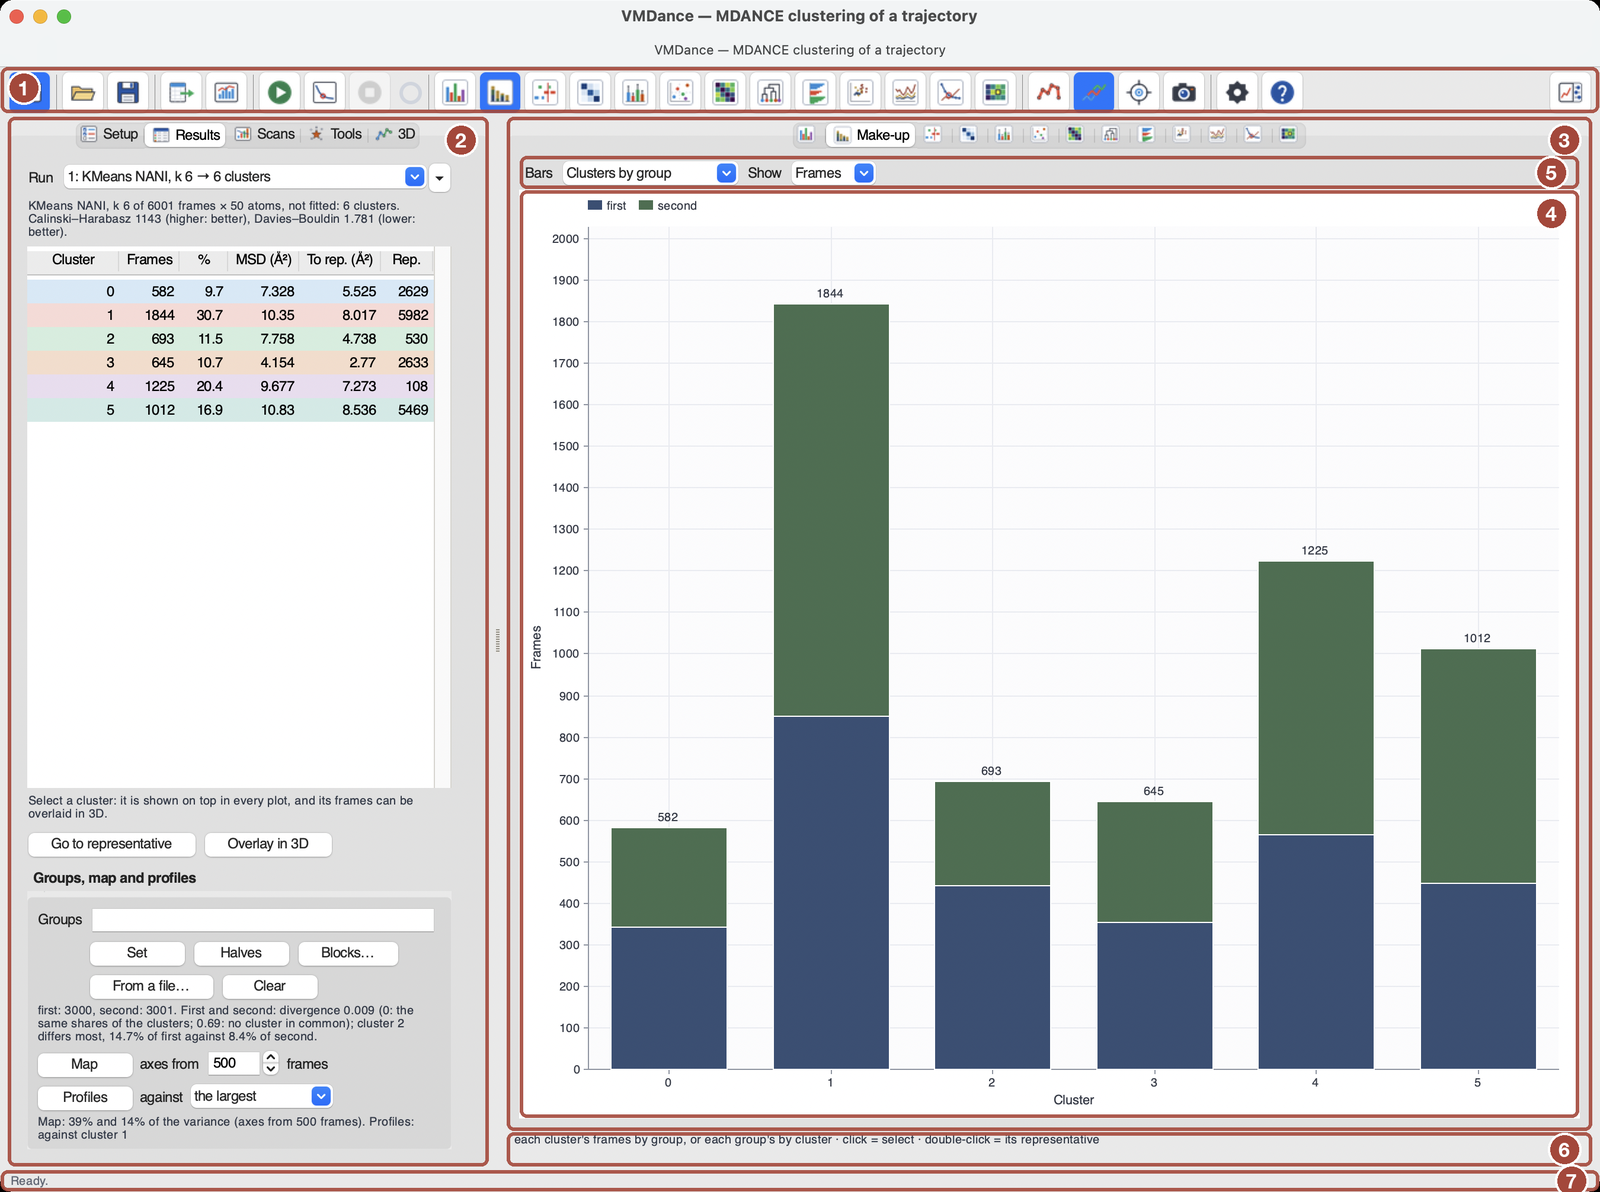
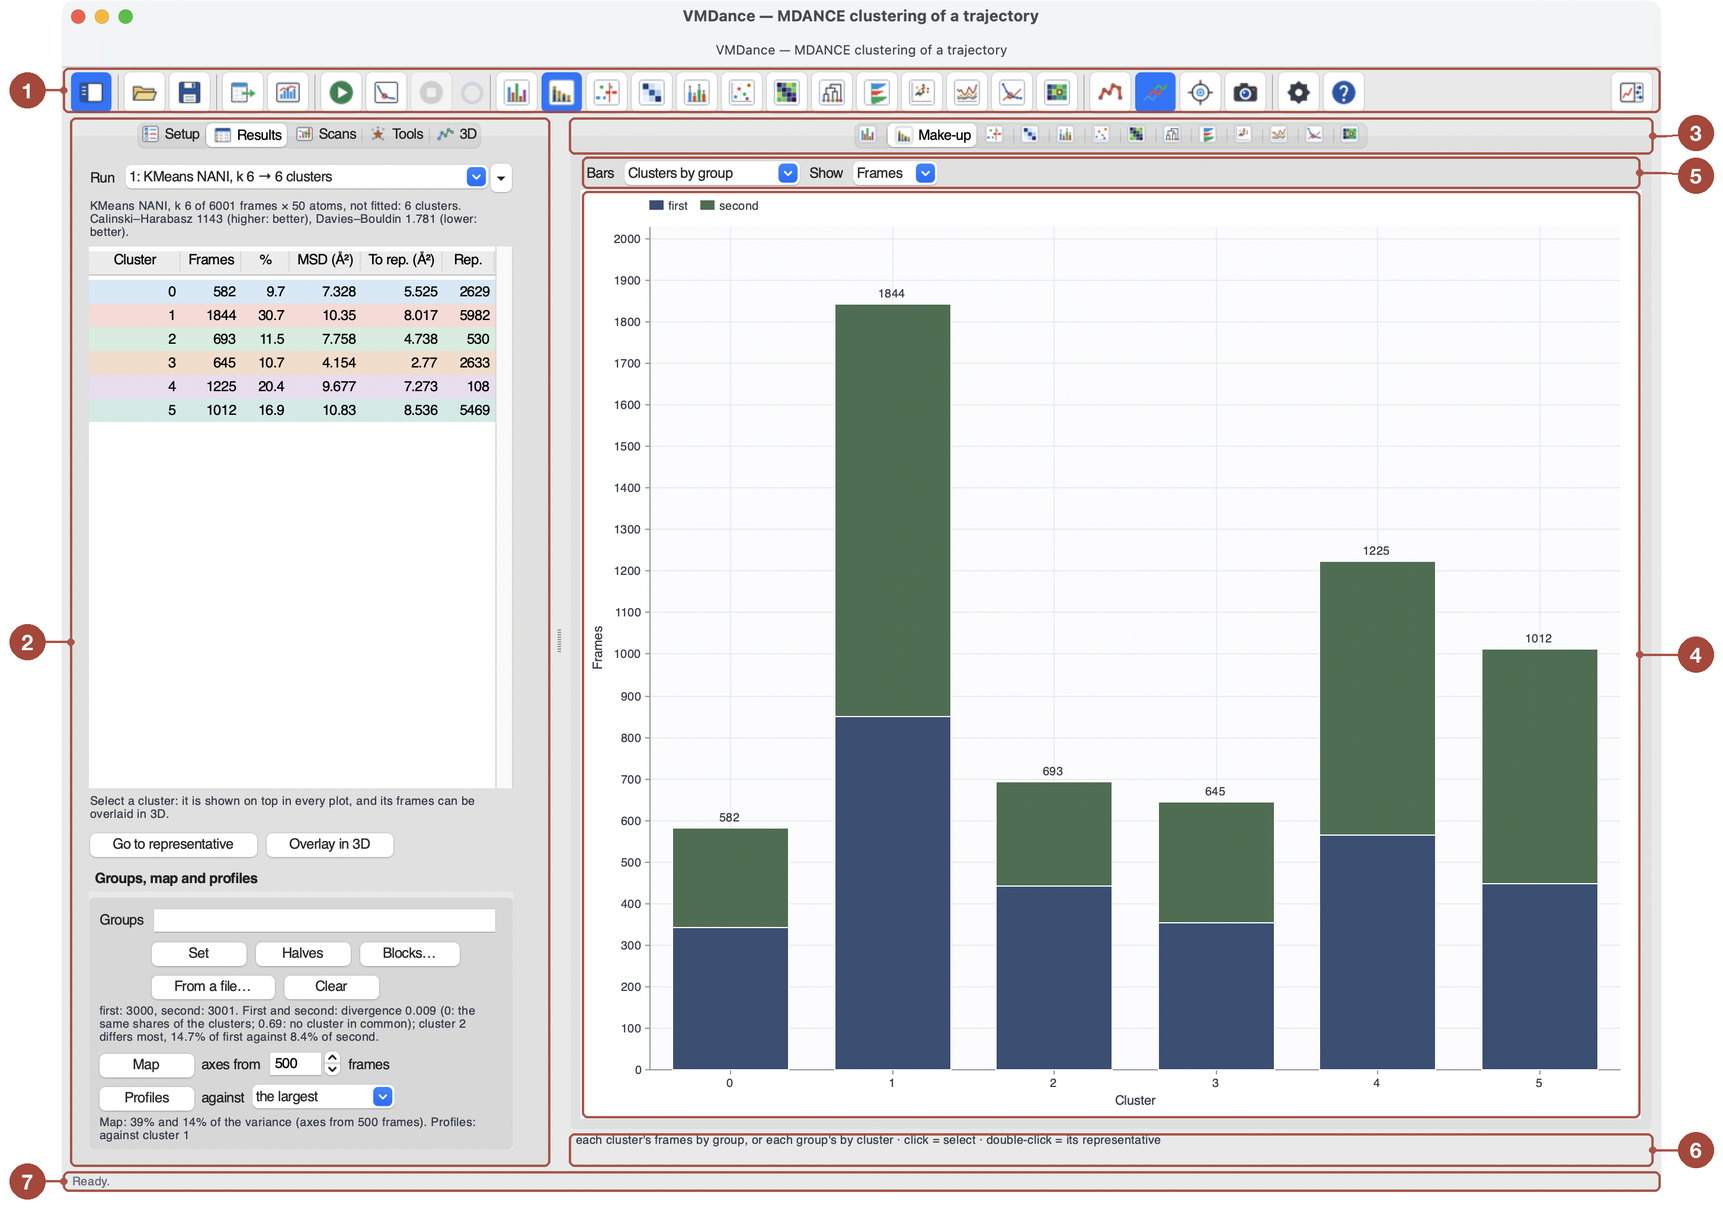
The window's picture: its parts' numbers beside the window
The numbers covered the window's controls (number 1 the toolbar's first
button). They are now in white margins left and right of the window, each
joined to its part's outline by a line; the numbers of rows next to each
other (the plots' tabs and the plot's options) are spread apart. (3)
outlines the tab row alone, as the captions say, not the whole notebook of
the plots.

- quickstart-guide/annotate.py: the guide's Figure 2, from the window's
  picture kept (figures/window.png); the window's transparent corners on
  white.
- docs/tools/annotate.py: the docs' picture, the same way. Its parts'
  places were read from the outlines of the picture kept (capture.tcl's
  window_parts.txt is not in the repository; the old drawing made again
  from them matched it to the pixel). The corners where Windows 11 shows
  the desktop are made transparent.

Changed region(s): [[0.0, 0.0, 1.0, 1.0]]

diff --git a/docs/tools/annotate.py b/docs/tools/annotate.py
@@ -2,26 +2,74 @@
 window_annotated.png), from capture.tcl's window.png and the places of the
 parts it wrote (window_parts.txt: name x y width height, in pixels).
 
+The numbers are in white margins beside the window, each joined to its
+part's outline by a line, so that none covers a control. The quick-start
+guide's picture is numbered the same way (quickstart-guide/annotate.py).
+
     python3 docs/tools/annotate.py <VMDANCE_OUT>/window_parts.txt
 """
 import os
 import sys
 
-from PIL import Image, ImageDraw, ImageFont
+from PIL import Image, ImageChops, ImageDraw, ImageFont
 
 HERE = os.path.dirname(os.path.abspath(__file__))
 FIGS = os.path.join(os.path.dirname(HERE), "_static", "figures")
-# the order the docs number them in, and where the mark goes on each
+# the order the docs number them in
 ORDER = ["toolbar", "panes", "plots", "plot", "options", "readout", "status"]
+# the side of the window each number is on: the parts along the left edge on
+# the left, those of the plots' side on the right
+SIDE = {"toolbar": "left", "panes": "left", "status": "left",
+        "plots": "right", "options": "right", "plot": "right", "readout": "right"}
 COLOUR = (163, 72, 59)
+EDGE = (222, 222, 222)  # the window's edge on the white (the pages' hairline)
+R = 15                  # a number's radius, in pixels
+GAP = 14                # from a number to the window's edge
+MARGIN = GAP + 2 * R + 8  # the white margin each side
+PAD = 10                  # above and below the window
+APART = 2 * R + 6         # the least distance between two numbers' centres
 
 
 def font(size):
     for f in ("/usr/share/fonts/opentype/inter/Inter-Bold.otf", "/usr/share/fonts/truetype/dejavu/DejaVuSans-Bold.ttf",
-              "C:/Windows/Fonts/segoeuib.ttf", "C:/Windows/Fonts/arialbd.ttf"):
+              "C:/Windows/Fonts/segoeuib.ttf", "C:/Windows/Fonts/arialbd.ttf", "/System/Library/Fonts/HelveticaNeue.ttc"):
         if os.path.exists(f):
-            return ImageFont.truetype(f, size)
+            return ImageFont.truetype(f, size, index=1) if f.endswith(".ttc") else ImageFont.truetype(f, size)
     return ImageFont.load_default()
+
+
+def spread(wanted, least):
+    """Centres as near the wanted ones (sorted) as can be, least apart: the
+    numbers of thin rows next to each other (the plots' tabs and the plot's
+    options) are moved apart, each group about its middle."""
+    groups = []  # [first centre, count, sum of the wanted]
+    for y in wanted:
+        groups.append([y, 1, y])
+        while len(groups) > 1:
+            a, b = groups[-2], groups[-1]
+            if a[0] + a[1] * least <= b[0]:
+                break
+            n, total = a[1] + b[1], a[2] + b[2]
+            groups[-2:] = [[total / n - (n - 1) * least / 2, n, total]]
+    return [g[0] + k * least for g in groups for k in range(g[1])]
+
+
+def round_corners(img, r=6):
+    """The corners that show what was under the window made transparent:
+    Windows 11 rounds the window's bottom corners, and the capture copies
+    the screen's area. A corner is rounded only where its pixel is far from
+    the window's colour beside it (the top corners here are square)."""
+    w, h = img.size
+    big = Image.new("L", (4 * w, 4 * h), 0)
+    ImageDraw.Draw(big).rounded_rectangle([0, 0, 4 * w - 1, 4 * h - 1], radius=4 * r, fill=255)
+    mask = big.resize((w, h), Image.LANCZOS)
+    rgb = img.convert("RGB")
+    for (cx, cy), (ix, iy) in (((0, 0), (r, r)), ((w - 1, 0), (w - 1 - r, r)),
+                               ((0, h - 1), (r, h - 1 - r)), ((w - 1, h - 1), (w - 1 - r, h - 1 - r))):
+        if max(abs(p - q) for p, q in zip(rgb.getpixel((cx, cy)), rgb.getpixel((ix, iy)))) < 60:
+            mask.paste(255, (min(cx, ix), min(cy, iy), max(cx, ix) + 1, max(cy, iy) + 1))
+    img.putalpha(ImageChops.darker(img.getchannel("A"), mask))
+    return img
 
 
 def main(parts_file):
@@ -31,26 +79,46 @@ def main(parts_file):
             w = line.split()
             if len(w) == 5:
                 parts[w[0]] = tuple(int(v) for v in w[1:])
-    img = Image.open(os.path.join(FIGS, "window.png")).convert("RGB")
-    over = Image.new("RGBA", img.size, (0, 0, 0, 0))
+    # (3) is the plots' tabs: the row above the plot's options, not the
+    # whole notebook (which held (4) and (5) inside its outline)
+    if "plots" in parts and "options" in parts:
+        x, y, w, h = parts["plots"]
+        parts["plots"] = (x, y, w, parts["options"][1] - y)
+    img = round_corners(Image.open(os.path.join(FIGS, "window.png")).convert("RGBA"))
+    m = MARGIN
+    canvas = Image.new("RGB", (img.width + 2 * m, img.height + 2 * PAD), (255, 255, 255))
+    canvas.paste(img, (m, PAD), img)
+    over = Image.new("RGBA", canvas.size, (0, 0, 0, 0))
     d = ImageDraw.Draw(over)
-    f = font(17)
-    r = 14
+    d.rectangle([m - 1, PAD - 1, m + img.width, PAD + img.height], outline=EDGE + (255,))
+    f = font(18)
+    ink = COLOUR + (235,)
+    # each part: its outline, the middle of its edge on its side (where its
+    # line ends, with a dot), and its number's place in the margin
+    marks = []
     for i, name in enumerate(ORDER, 1):
         if name not in parts:
             continue
         x, y, w, h = parts[name]
-        d.rounded_rectangle([x + 1, y + 1, x + w - 2, y + h - 2], radius=6, outline=COLOUR + (230,), width=3)
-        # the number: at the part's top left, inside it (the plot's and the
-        # panes' a little further in, off their tabs)
-        cx, cy = x + r + 6, y + r + 4
-        if name in ("plot", "panes", "plots"):
-            cx, cy = x + w - r - 10, y + r + 6
-        if name in ("readout", "status", "options"):
-            cx, cy = x + w - r - 10, y + h / 2
-        d.ellipse([cx - r, cy - r, cx + r, cy + r], fill=COLOUR + (255,), outline=(255, 255, 255, 255), width=2)
-        d.text((cx, cy), str(i), font=f, fill=(255, 255, 255, 255), anchor="mm")
-    out = Image.alpha_composite(img.convert("RGBA"), over).convert("RGB")
+        x += m
+        y += PAD
+        d.rounded_rectangle([x + 1, y + 1, x + w - 2, y + h - 2], radius=5, outline=ink, width=2)
+        edge = x + 2 if SIDE[name] == "left" else x + w - 3
+        marks.append((SIDE[name], y + h / 2, edge, i))
+    for side in ("left", "right"):
+        these = sorted(k for k in marks if k[0] == side)
+        if side == "left":
+            cx, out_x = m - GAP - R, m - 5
+        else:
+            cx, out_x = m + img.width + GAP + R, m + img.width + 4
+        for (_, py, edge, i), cy in zip(these, spread([k[1] for k in these], APART)):
+            # straight out of the window, then to the number (bent only where
+            # it was moved)
+            d.line([(edge, py), (out_x, py), (cx, cy)], fill=ink, width=2, joint="curve")
+            d.ellipse([edge - 3, py - 3, edge + 3, py + 3], fill=ink)
+            d.ellipse([cx - R, cy - R, cx + R, cy + R], fill=COLOUR + (255,))
+            d.text((cx, cy), str(i), font=f, fill=(255, 255, 255, 255), anchor="mm")
+    out = Image.alpha_composite(canvas.convert("RGBA"), over).convert("RGB")
     out.save(os.path.join(FIGS, "window_annotated.png"), optimize=True)
     print("wrote window_annotated.png")
 

diff --git a/quickstart-guide/annotate.py b/quickstart-guide/annotate.py
@@ -5,8 +5,10 @@ figures/window_annotated.png, from figures.tcl's window.png and
 window_parts.txt (name x y width height, in Tk's points; the first line is
 the window's own size). The picture can be larger than the points (a Retina
 screen's two pixels a point) and taller (the title bar macOS adds above
-Tk's window): both are measured from it. The numbers and their places are
-those of the online documentation's picture (docs/tools/annotate.py).
+Tk's window): both are measured from it. The numbers, and where they are,
+are those of the online documentation's picture (docs/tools/annotate.py):
+in white margins beside the window, each joined to its part's outline by a
+line, so that none covers a control.
 
 figures/main_3d.png, VMD's render of the representatives, is cropped to what
 is drawn on its white background, with a margin: the representatives differ
@@ -20,8 +22,32 @@ import sys
 from PIL import Image, ImageChops, ImageDraw, ImageFont
 
 ORDER = ["toolbar", "panes", "plots", "plot", "options", "readout", "status"]
+# the side of the window each number is on: the parts along the left edge on
+# the left, those of the plots' side on the right
+SIDE = {"toolbar": "left", "panes": "left", "status": "left",
+        "plots": "right", "options": "right", "plot": "right", "readout": "right"}
 COLOUR = (163, 72, 59)
-WIDTH = 1600  # the picture's width in the guide's file, in pixels
+WINDOW = 1600  # the window's width in the guide's file, in pixels (the margins apart)
+R = 15         # a number's radius, in Tk's points
+GAP = 14       # from a number to the window's edge
+MARGIN = GAP + 2 * R + 8  # the white margin each side
+APART = 2 * R + 6         # the least distance between two numbers' centres
+
+
+def spread(wanted, least):
+    """Centres as near the wanted ones (sorted) as can be, least apart: the
+    numbers of thin rows next to each other (the plots' tabs and the plot's
+    options) are moved apart, each group about its middle."""
+    groups = []  # [first centre, count, sum of the wanted]
+    for y in wanted:
+        groups.append([y, 1, y])
+        while len(groups) > 1:
+            a, b = groups[-2], groups[-1]
+            if a[0] + a[1] * least <= b[0]:
+                break
+            n, total = a[1] + b[1], a[2] + b[2]
+            groups[-2:] = [[total / n - (n - 1) * least / 2, n, total]]
+    return [g[0] + k * least for g in groups for k in range(g[1])]
 
 
 def font(size):
@@ -58,34 +84,57 @@ def main(folder):
             w = line.split()
             if len(w) == 5:
                 parts[w[0]] = tuple(int(v) for v in w[1:])
-    img = Image.open(os.path.join(folder, "window.png")).convert("RGB")
+    # (3) is the plots' tabs: the row above the plot's options, not the
+    # whole notebook (which held (4) and (5) inside its outline)
+    if "plots" in parts and "options" in parts:
+        x, y, w, h = parts["plots"]
+        parts["plots"] = (x, y, w, parts["options"][1] - y)
+    # the window's rounded corners are transparent: on the page's white
+    img = Image.open(os.path.join(folder, "window.png")).convert("RGBA")
     tw, th = parts["window"][2], parts["window"][3]
-    scale = img.width / tw
-    top = img.height - th * scale  # the title bar above Tk's window
-    over = Image.new("RGBA", img.size, (0, 0, 0, 0))
+    s = img.width / tw
+    top = img.height - th * s  # the title bar above Tk's window
+    # the numbers go in white margins left and right of the window, each
+    # joined by a short line to its part's outline: none is drawn over the
+    # window's controls
+    m = round(MARGIN * s)
+    pad = round((R + 4) * s)  # below the window, for the status line's number
+    canvas = Image.new("RGB", (img.width + 2 * m, img.height + pad), (255, 255, 255))
+    canvas.paste(img, (m, 0), img)
+    over = Image.new("RGBA", canvas.size, (0, 0, 0, 0))
     d = ImageDraw.Draw(over)
-    r = 14 * scale
-    f = font(int(17 * scale))
+    f = font(round(18 * s))
+    ink = COLOUR + (235,)
+    line = round(2 * s)
+    # each part: its outline, the middle of its edge on its side (where its
+    # line ends, with a dot), and its number's place in the margin
+    marks = []
     for i, name in enumerate(ORDER, 1):
         if name not in parts:
             continue
-        x, y, w, h = (v * scale for v in parts[name])
+        x, y, w, h = (v * s for v in parts[name])
+        x += m
         y += top
-        d.rounded_rectangle([x + 1, y + 1, x + w - 2, y + h - 2], radius=6 * scale,
-                            outline=COLOUR + (230,), width=int(3 * scale))
-        # the number: at the part's top left, inside it (the plot's and the
-        # panes' a little further in, off their tabs)
-        cx, cy = x + r + 6 * scale, y + r + 4 * scale
-        if name in ("plot", "panes", "plots"):
-            cx, cy = x + w - r - 10 * scale, y + r + 6 * scale
-        if name in ("readout", "status", "options"):
-            cx, cy = x + w - r - 10 * scale, y + h / 2
-        d.ellipse([cx - r, cy - r, cx + r, cy + r], fill=COLOUR + (255,), outline=(255, 255, 255, 255),
-                  width=int(2 * scale))
-        d.text((cx, cy), str(i), font=f, fill=(255, 255, 255, 255), anchor="mm")
-    out = Image.alpha_composite(img.convert("RGBA"), over).convert("RGB")
-    if out.width > WIDTH:
-        out = out.resize((WIDTH, round(out.height * WIDTH / out.width)), Image.LANCZOS)
+        d.rounded_rectangle([x + s, y + s, x + w - s, y + h - s], radius=5 * s, outline=ink, width=line)
+        edge = x + 1.5 * s if SIDE[name] == "left" else x + w - 1.5 * s
+        marks.append((SIDE[name], y + h / 2, edge, i))
+    for side in ("left", "right"):
+        these = sorted(k for k in marks if k[0] == side)
+        if side == "left":
+            cx, out_x = m - (GAP + R) * s, m - 4 * s
+        else:
+            cx, out_x = m + img.width + (GAP + R) * s, m + img.width + 4 * s
+        for (_, py, edge, i), cy in zip(these, spread([k[1] for k in these], APART * s)):
+            # straight out of the window, then to the number (bent only where
+            # it was moved)
+            d.line([(edge, py), (out_x, py), (cx, cy)], fill=ink, width=line, joint="curve")
+            d.ellipse([edge - 3 * s, py - 3 * s, edge + 3 * s, py + 3 * s], fill=ink)
+            d.ellipse([cx - R * s, cy - R * s, cx + R * s, cy + R * s], fill=COLOUR + (255,))
+            d.text((cx, cy), str(i), font=f, fill=(255, 255, 255, 255), anchor="mm")
+    out = Image.alpha_composite(canvas.convert("RGBA"), over).convert("RGB")
+    width = round(WINDOW * out.width / img.width)
+    if out.width > width:
+        out = out.resize((width, round(out.height * width / out.width)), Image.LANCZOS)
     out.save(os.path.join(folder, "window_annotated.png"), optimize=True)
     print("wrote", os.path.join(folder, "window_annotated.png"))
 
